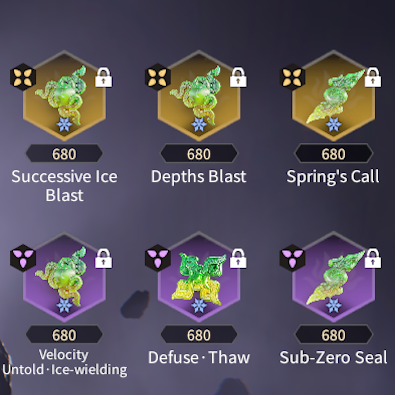
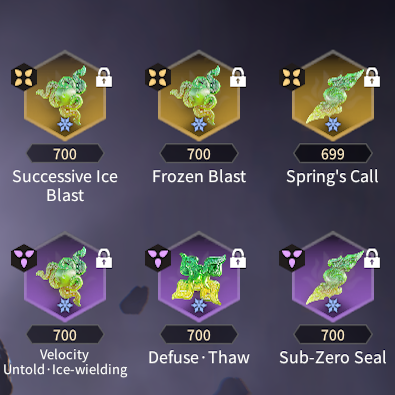
Edits to Divine Storm Potential Plan and a couple of Ice Jade Set Ups.

diff --git a/build.html b/build.html
@@ -158,11 +158,11 @@
 						<br><br><strong>Recommended Heroes: Viper Ning, Tianhai, Temulch, Kurumi, Valda Cui, & Feria Shen</strong></p>
 					<h4>Honed Moment Variant</h4>
 						<img src="img/builds/trees/hd-honed.png" alt="Honed Darkness Path with Honed Moment" class="large-example with-caption">
-						<p class="caption">A variant that helps with maintaining Honed Status for Honed Darkness particularly in boss fights.</p>
+						<p class="caption">Helps with maintaining Honed Status for Honed Darkness particularly in boss fights.</p>
 					<h4>Honed Rider Variant</h4>
 						<img src="img/builds/trees/hd-rider.png" alt="Honed Darkness Path with Honed Rider" class="large-example with-caption">
-						<p class="caption">A variant that stacks Honed Status quickly from fighting mobs. 
-							However, be careful not to die in a boss fight or you'll lose all of your stacks.</p>
+						<p class="caption">Stacks Honed Status quickly from fighting groups of enemies. 
+							However, be careful not to die in a boss fight or you'll lose all of your stacks and it'll be hard to rebuild them.</p>
 					<h4 id="honed-blaze">Honed Blaze Variant</h4>
 						<img src="img/builds/trees/hd-blaze.png" alt="Honed Darkness Path with Honed Blaze" class="large-example with-caption">
 						<p class="caption">A variant that protects you against freezing, 
@@ -172,14 +172,16 @@
 				<hr id="Divine Storm"><h3>Divine Storm</h3>
 					<p class="center">This Potential Path primarily emphasizes the Divine Storm glyph, which is located at the end of the Red section.
 						This path increases your Thunderbolt damage and can stack Honed Status quickly when fighting groups of enemies.
-						<br><br><strong>Recommended Heroes: Feria Shen, Matari, Viper Ning & Tarka Ji</strong></p>
+						<br><br><strong>Recommended Heroes: Any</strong></p>
 					<h4>Honed Moment Variant</h4>
 						<img src="img/builds/trees/ds-honed.png" alt="Divine Storm Path with Honed Moment" class="large-example with-caption">
-						<p class="caption">Works best in Yama's Abyss Stages that have the Enhanced Blade Edge Omen that reduces elemental damage.</p>
+						<p class="caption">Falls behind other potential plans in damage output, but works well as a counter to the 
+							<a href="endgame.html?option=4#yamas-omens">Enhanced Blade Edge</a> Omen.</p>
 					<h4>Honed Judgement Variant</h4>
 						<img src="img/builds/trees/ds-element.png" alt="Divine Storm Path with Honed Judgement" class="large-example with-caption">
-						<p class="caption">A niche variant for those seeking to keep their Aegis damage (lost from Honed Tyranny) and
-							plan to use Thunderbolt based Souljades (Stormstride, Stormstride Sword, Thunder Sword).</p>
+						<p class="caption">For those planning to use Thunderbolt based Souljades 
+							(Stormstride, Stormstride Sword, Thunder Sword) as your primary damage. 
+							Doesn't fit in the current meta.</p>
 				<!-- Hybrid -->
 				<hr id="Hybrid"><h3>Hybrid</h3>
 					<p class="">This Potential Path strikes a balance between the other paths. 
@@ -206,18 +208,18 @@
 						<th colspan="2">Ice Nova</th>
 					</tr>
 					<tr>
-						<td><img src="img/builds/icenova.png" alt="Successive Ice Blast, Depths Blast, Spring's Call, -Wielding Jade, Defuse Thaw, & Sub-Zero Seal" class="portrait"></td>
+						<td><img src="img/builds/icenova.png" alt="Successive Ice Blast, Frozen Blast, Spring's Call, Ice-Wielding Jade, Defuse Thaw, & Sub-Zero Seal" class="portrait"></td>
 						<td>
 							<p class="label">Strengths:</p>
 							<ul class="nodot">
-								<li>2nd Highest Ice Blast DMG multiplier</li>
+								<li>Potentially high attack bonus</li>
 								<li>Clears mobs quickly</li>
 								<li>High burst damage</li>
 							</ul>
 							<p class="label">Weaknesses:</p>
 							<ul class="nodot">
-								<li>Most vulnerable to freeze</li>
-								<li>Builds frostbite rapidly</li>
+								<li>Low base attack bonus</li>
+								<li>Passive generation of Frostbite is slightly faster</li>
 								<li>Requires a successful defuse to be at full power</li>
 							</ul>
 							<p class="label">Recommended Heroes:</p>
@@ -231,7 +233,7 @@
 						<th colspan="2">Winter's Retreat</th>
 					</tr>
 					<tr>
-						<td><img src="img/builds/winterretreat.png" alt="Successive Ice Blast, Spring's Call, -Wielding Jade, Defuse Thaw, Reawakening & Sub-Zero Seal" class="portrait"></td>
+						<td><img src="img/builds/winterretreat.png" alt="Successive Ice Blast, Spring's Call, Ice-Wielding Jade, Defuse Thaw, Reawakening & Sub-Zero Seal" class="portrait"></td>
 						<td>
 							<p class="label">Strengths:</p>
 							<ul class="nodot">
@@ -256,7 +258,7 @@
 						<th colspan="2">Hail Storm</th>
 					</tr>
 					<tr>
-						<td><img src="img/builds/hailstorm.png" alt="Stormstride Sword, Successive Ice Blast, Spring's Call, -Wielding Jade, Defuse Thaw, & Sub-Zero Seal" class="portrait"></td>
+						<td><img src="img/builds/hailstorm.png" alt="Stormstride Sword, Successive Ice Blast, Spring's Call, Ice-Wielding Jade, Defuse Thaw, & Sub-Zero Seal" class="portrait"></td>
 						<td>
 							<p class="label">Strengths:</p>
 							<ul class="nodot">
@@ -281,7 +283,7 @@
 						<th colspan="2">Frostfire</th>
 					</tr>
 					<tr>
-						<td><img src="img/builds/frostfire.png" alt="Successive Ice Blast, Defuse Ice Flow, Desperation, Spring's Call, -Wielding Jade, & Backfire" class="portrait"></td>
+						<td><img src="img/builds/frostfire.png" alt="Successive Ice Blast, Defuse Ice Flow, Desperation, Spring's Call, Ice-Wielding Jade, & Backfire" class="portrait"></td>
 						<td>
 							<p class="label">Strengths:</p>
 							<ul class="nodot">
@@ -306,7 +308,7 @@
 						<th colspan="2">Icy Restoration</th>
 					</tr>
 					<tr>
-						<td><img src="img/builds/icyrestoration.png" alt="Successive Ice Blast, Renewed Vigor, Soul Shiver, -Wielding Jade, Defuse Thaw, & Sub-Zero Seal" class="portrait"></td>
+						<td><img src="img/builds/icyrestoration.png" alt="Successive Ice Blast, Renewed Vigor, Soul Shiver, Ice-Wielding Jade, Defuse Thaw, & Sub-Zero Seal" class="portrait"></td>
 						<td>
 							<p class="label">Strengths:</p>
 							<ul class="nodot">
@@ -331,18 +333,18 @@
 						<th colspan="2">Absolute Zero</th>
 					</tr>
 					<tr>
-						<td><img src="img/builds/absolutezero.png" alt="Successive Ice Blast, Depths Blast, Frozen Blast, -Wielding Jade, Defuse Thaw, & Tundra Might" class="portrait"></td>
+						<td><img src="img/builds/absolutezero.png" alt="Successive Ice Blast, Frozen Blast, Ice-Wielding Jade, Defuse Thaw, Sub-Zero Seal & Tundra Might" class="portrait"></td>
 						<td>
 							<p class="label">Strengths:</p>
 							<ul class="nodot">
-								<li>Highest Ice Blast Damage multiplier</li>
-								<li>Great for activating consecutive Ice Blasts on multiple enemies</li>
-								<li>No passive generation of frostbite</li>
+								<li>Among the highest activation rate for Ice Blasts</li>
+								<li>Great for clearing mobs</li>
+								<li>Constant attack bonus</li>
 							</ul>
 							<p class="label">Weaknesses:</p>
 							<ul class="nodot">
-								<li>Can freeze quickly when fighting multiple enemies</li>
-								<li>No consistent damage bonus</li>
+								<li>Passive generation of Frostbite is a slightly faster</li>
+								<li>Relatively low attack bonus</li>
 								<li>Relies on Honed Darkness to be efficient</li>
 							</ul>
 							<p class="label">Recommended Heroes:</p>
@@ -356,7 +358,7 @@
 						<th colspan="2">Matron's Blizzard</th>
 					</tr>
 					<tr>
-						<td><img src="img/builds/matronblizzard.png" alt="Successive Ice Blast, Depths Blast, Yushan Shadows, Frozen Blast, -Wielding Jade, & Sub-Zero Seal" class="portrait"></td>
+						<td><img src="img/builds/matronblizzard.png" alt="Successive Ice Blast, Depths Blast, Yushan Shadows, Frozen Blast, Ice-Wielding Jade, & Sub-Zero Seal" class="portrait"></td>
 						<td>
 							<p class="label">Strengths:</p>
 							<ul class="nodot">
@@ -383,7 +385,7 @@
 						<th colspan="2">Stormcaller</th>
 					</tr>
 					<tr>
-						<td><img src="img/builds/stormcaller.png" alt="Thunderpull, Thunder Counter, Spring's Call, -Wielding Jade, Ice Break, & Sub-Zero Seal" class="portrait"></td>
+						<td><img src="img/builds/stormcaller.png" alt="Thunderpull, Thunder Counter, Spring's Call, Thunder-Wielding Jade, Ice Break, & Sub-Zero Seal" class="portrait"></td>
 						<td>
 							<p class="label">Strengths:</p>
 							<ul class="nodot">

diff --git a/endgame.html b/endgame.html
@@ -331,7 +331,7 @@
 						A strategy that many use in the later stages is to run it as a Trio and feed all of their money to whoever is lucky enough to get the right Anima Rings and Souljade combinations.
 						Successive Ice Blast or Thunderpull + Thunder Counter are heavily recommended to clear these later stages as they provide a significant boost to element damage.
 						If seeking a Thunderbolt based build in place of Element, then Souljades like Stormstride, Stormstride Sword and Thunder Sword are handy.</p>
-						<h4>Omen Effects</h4>
+						<h4 id="yamas-omens">Omen Effects</h4>
 						<p class="center caption">The following are the effects of Omens that affect your damage output:</p>
 						<img src="img/endgame/yamas/omens.png" alt="List of All Omens Affecting Player Damage" class="large-example">
 					</p>
